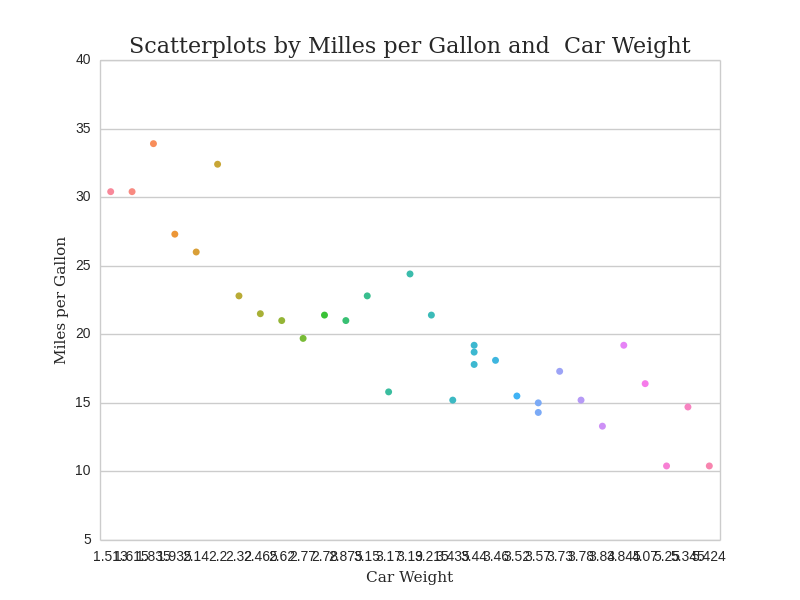
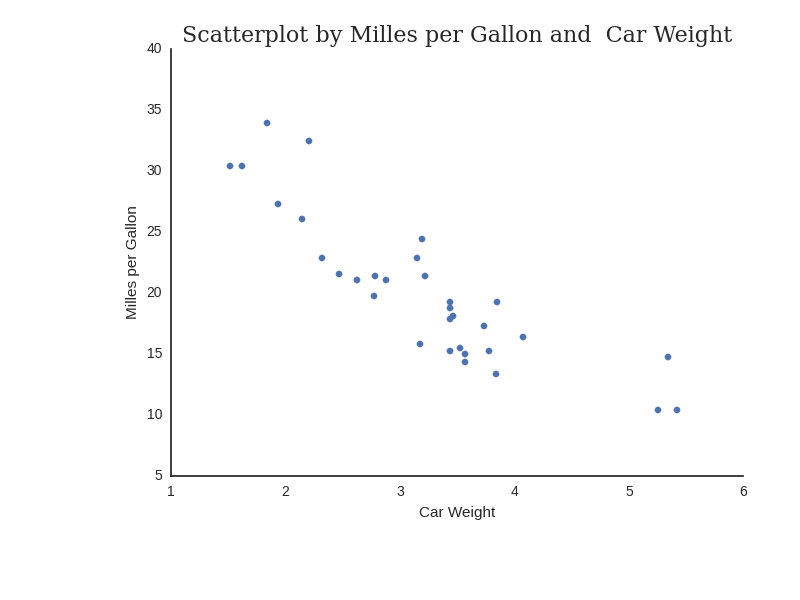
Bubble Chart completo

diff --git a/display-patterns/correlations/bubble_chart.md b/display-patterns/correlations/bubble_chart.md
@@ -1,27 +1,118 @@
 # PYTHON IMPLEMENTATION
 
+
+
 ## Data Set
+
+We use the data set mtcars R.
+Create a file named as datos.py and write the next code.
+
+
+~~~~{.python}
+from rpy2.robjects import r
+from rpy2.robjects import pandas2ri
+
+def data(name):
+        return pandas2ri.ri2py(r[name])
+~~~~~~~~~~~~~
+
+
+
+Then you need import the data.py file into a proyect.
+
+
+~~~~{.python}
+from datos import data
+d=data('mtcars')
+d
+~~~~~~~~~~~~~
+
+
+
 
 ## Dependences
 
 * rpy2:  The rpy2 package is used to access all R datasets from Python.
-* Matplotlib
-* Seaborn
-* Vispy
-* Pyqtgraph
+* Matplotlib: 
+* Seaborn: 
+* Pyqtgraph: 
+
 
 ## Code Example
 
 ### Matplotlib
 
 
-![](figures/bubble_chart_figure1_1.png){width=12 cm}\
+~~~~{.python}
+import numpy as np
+import matplotlib.pyplot as plt
+from datos import data
+
+d=data('mtcars')
+area = np.pi * (2 * d.cyl)**2  # 0 to 15 point radiuses
+plt.scatter(d.mpg, d.wt, s=area, c='blue', alpha=0.5)
+plt.title('Bubble Chart by Milles per Gallon and  Car Weight',
+family='serif', size=16)
+plt.xlabel('Car Weight', family= 'serif')
+plt.ylabel('Miles per Gallon', family='serif')
+plt.show()
+~~~~~~~~~~~~~
+
+![](figures/bubble_chart_figure3_1.png){width=12 cm}
+
 
 
 ### Seaborn
 
-### Vispy
+
+~~~~{.python}
+import numpy as np
+import matplotlib.pyplot as plt
+import seaborn as sns
+from datos import data
+
+d=data('mtcars')
+sns.set(style="white")
+g = sns.FacetGrid(d)
+area = np.pi * (2 * d.cyl)**2
+g.map(plt.scatter, "wt", "mpg",s=area)
+plt.title("Scatterplot by Milles per Gallon and  Car Weight",
+family='serif', size=16)
+g.set_axis_labels("Car Weight","Milles per Gallon")
+plt.show()
+~~~~~~~~~~~~~
+
+![](figures/bubble_chart_figure4_1.png){width=12 cm}
+
+
 
 ### Pyqtgraph
+
+
+~~~~{.python}
+import pyqtgraph as pg
+from pyqtgraph.Qt import QtCore, QtGui
+import numpy as np
+from datos import data
+
+d=data('mtcars')
+win = pg.GraphicsWindow()
+win.resize(800,500)
+win.setWindowTitle('Bubble Chart')
+plt= win.addPlot(title="Scatterplots by Milles per Gallon and  Car
+Weigh")
+plt.plot(d.wt,d.mpg, pen=None, symbol='o', symbolSize=d.cyl,
+symbolPen=(255,255,255,200), symbolBrush=(0,0,255,150))
+plt.setLabel('left', "Miles per Gallon", units='mpg')
+plt.setLabel('bottom', "Car Weight", units='lbs')
+
+if __name__ == '__main__':
+    import sys
+    if (sys.flags.interactive != 1) or not hasattr(QtCore,
+'PYQT_VERSION'):
+        QtGui.QApplication.instance().exec_()
+~~~~~~~~~~~~~
+![](figures/bubble_chart_figure5_1.png){width=12 cm}
+
 
 ## References

diff --git a/display-patterns/correlations/scatterplot.md b/display-patterns/correlations/scatterplot.md
@@ -15,22 +15,71 @@
 ### Matplotlib
 
 
-![](figures/scatterplot_figure1_1.png){width=12 cm}\
+~~~~{.python}
+import numpy as np
+import matplotlib.pyplot as plt
+from datos import data
+d=data('mtcars')
+plt.scatter(d.wt,d.mpg,  c='blue')
+plt.title('Scatterplot by Milles per Gallon and  Car Weight',
+family='serif', size=16)
+plt.xlabel('Car Weight', family= 'serif')
+plt.ylabel('Miles per Gallon', family='serif')
+plt.show()
+~~~~~~~~~~~~~
+
+![](figures/scatterplot_figure1_1.png){width=12 cm}
 
 
 ### Seaborn
 
-![](figures/scatterplot_figure2_1.png){width=12 cm}\
 
+~~~~{.python}
+import matplotlib.pyplot as plt
+import seaborn as sns
+from datos import data
 
-### Vispy
+d=data('mtcars')
+sns.set(style="white")
+g = sns.FacetGrid(d)
+g.map(plt.scatter, "wt", "mpg")
+plt.title("Scatterplot by Milles per Gallon and  Car Weight",
+family='serif', size=16)
+g.set_axis_labels("Car Weight","Milles per Gallon")
+plt.show()
+~~~~~~~~~~~~~
 
+![](figures/scatterplot_figure2_1.png){width=12 cm}
 
 
 
 ### Pyqtgraph
-![](figures/scatterplot_figure3_1.png){width=12 cm}\
 
+
+~~~~{.python}
+import pyqtgraph as pg
+from pyqtgraph.Qt import QtCore, QtGui
+import numpy as np
+from datos import data
+
+d=data('mtcars')
+win = pg.GraphicsWindow()
+win.resize(800,500)
+win.setWindowTitle('pyqtgraph example: Scatterplot')
+plt= win.addPlot(title="Scatterplots by Milles per Gallon and  Car
+Weigh")
+plt.plot(d.wt,d.mpg, pen=None, symbol='o', symbolSize=5,
+symbolPen=(255,255,255,200), symbolBrush=(0,0,255,150))
+plt.setLabel('left', "Miles per Gallon", units='mpg')
+plt.setLabel('bottom', "Car Weight", units='lbs')
+
+if __name__ == '__main__':
+    import sys
+    if (sys.flags.interactive != 1) or not hasattr(QtCore,
+'PYQT_VERSION'):
+        QtGui.QApplication.instance().exec_()
+~~~~~~~~~~~~~
+![](figures/scatterplot_figure3_1.png){width=12 cm}
 
 
 ## References
